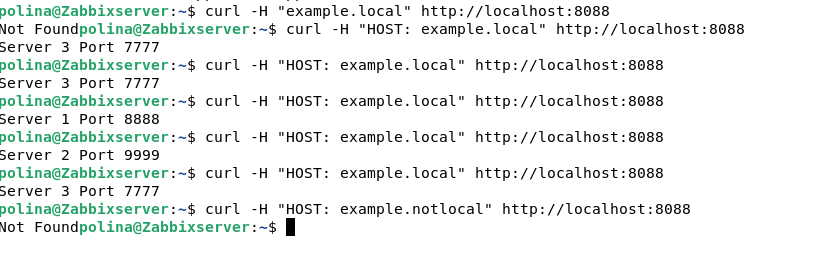
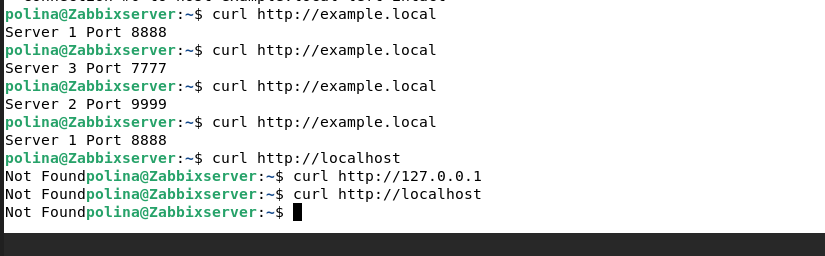
new_fix

Changed region(s): [[0.0, 0.0, 1.0, 1.0]]

diff --git a/HW-06/README.md b/HW-06/README.md
@@ -28,7 +28,7 @@
 
 ![Скрин к 1му заданию 2](https://github.com/polina-std-dvps/8-01-HW/blob/main/HW-06/задание_1_stat.png)
 
-![Конфигурация HAProxy](https://github.com/polina-std-dvps/8-01-HW/blob/main/HW-06/haproxy.cfg)
+[Конфигурация HAProxy к заданию 1](https://github.com/polina-std-dvps/8-01-HW/blob/main/HW-06/haproxy1.cfg)
 
 ---
 
@@ -40,3 +40,5 @@
 ![Скрин к 2му заданию 3](https://github.com/polina-std-dvps/8-01-HW/blob/main/HW-06/Задание_2.3.png)
 
 ![Скрин к 2му заданию 4](https://github.com/polina-std-dvps/8-01-HW/blob/main/HW-06/Задание_2_stat.png)
+
+[Конфигурация HAProxy к заданию 2](https://github.com/polina-std-dvps/8-01-HW/blob/main/HW-06/haproxy2.cfg)
